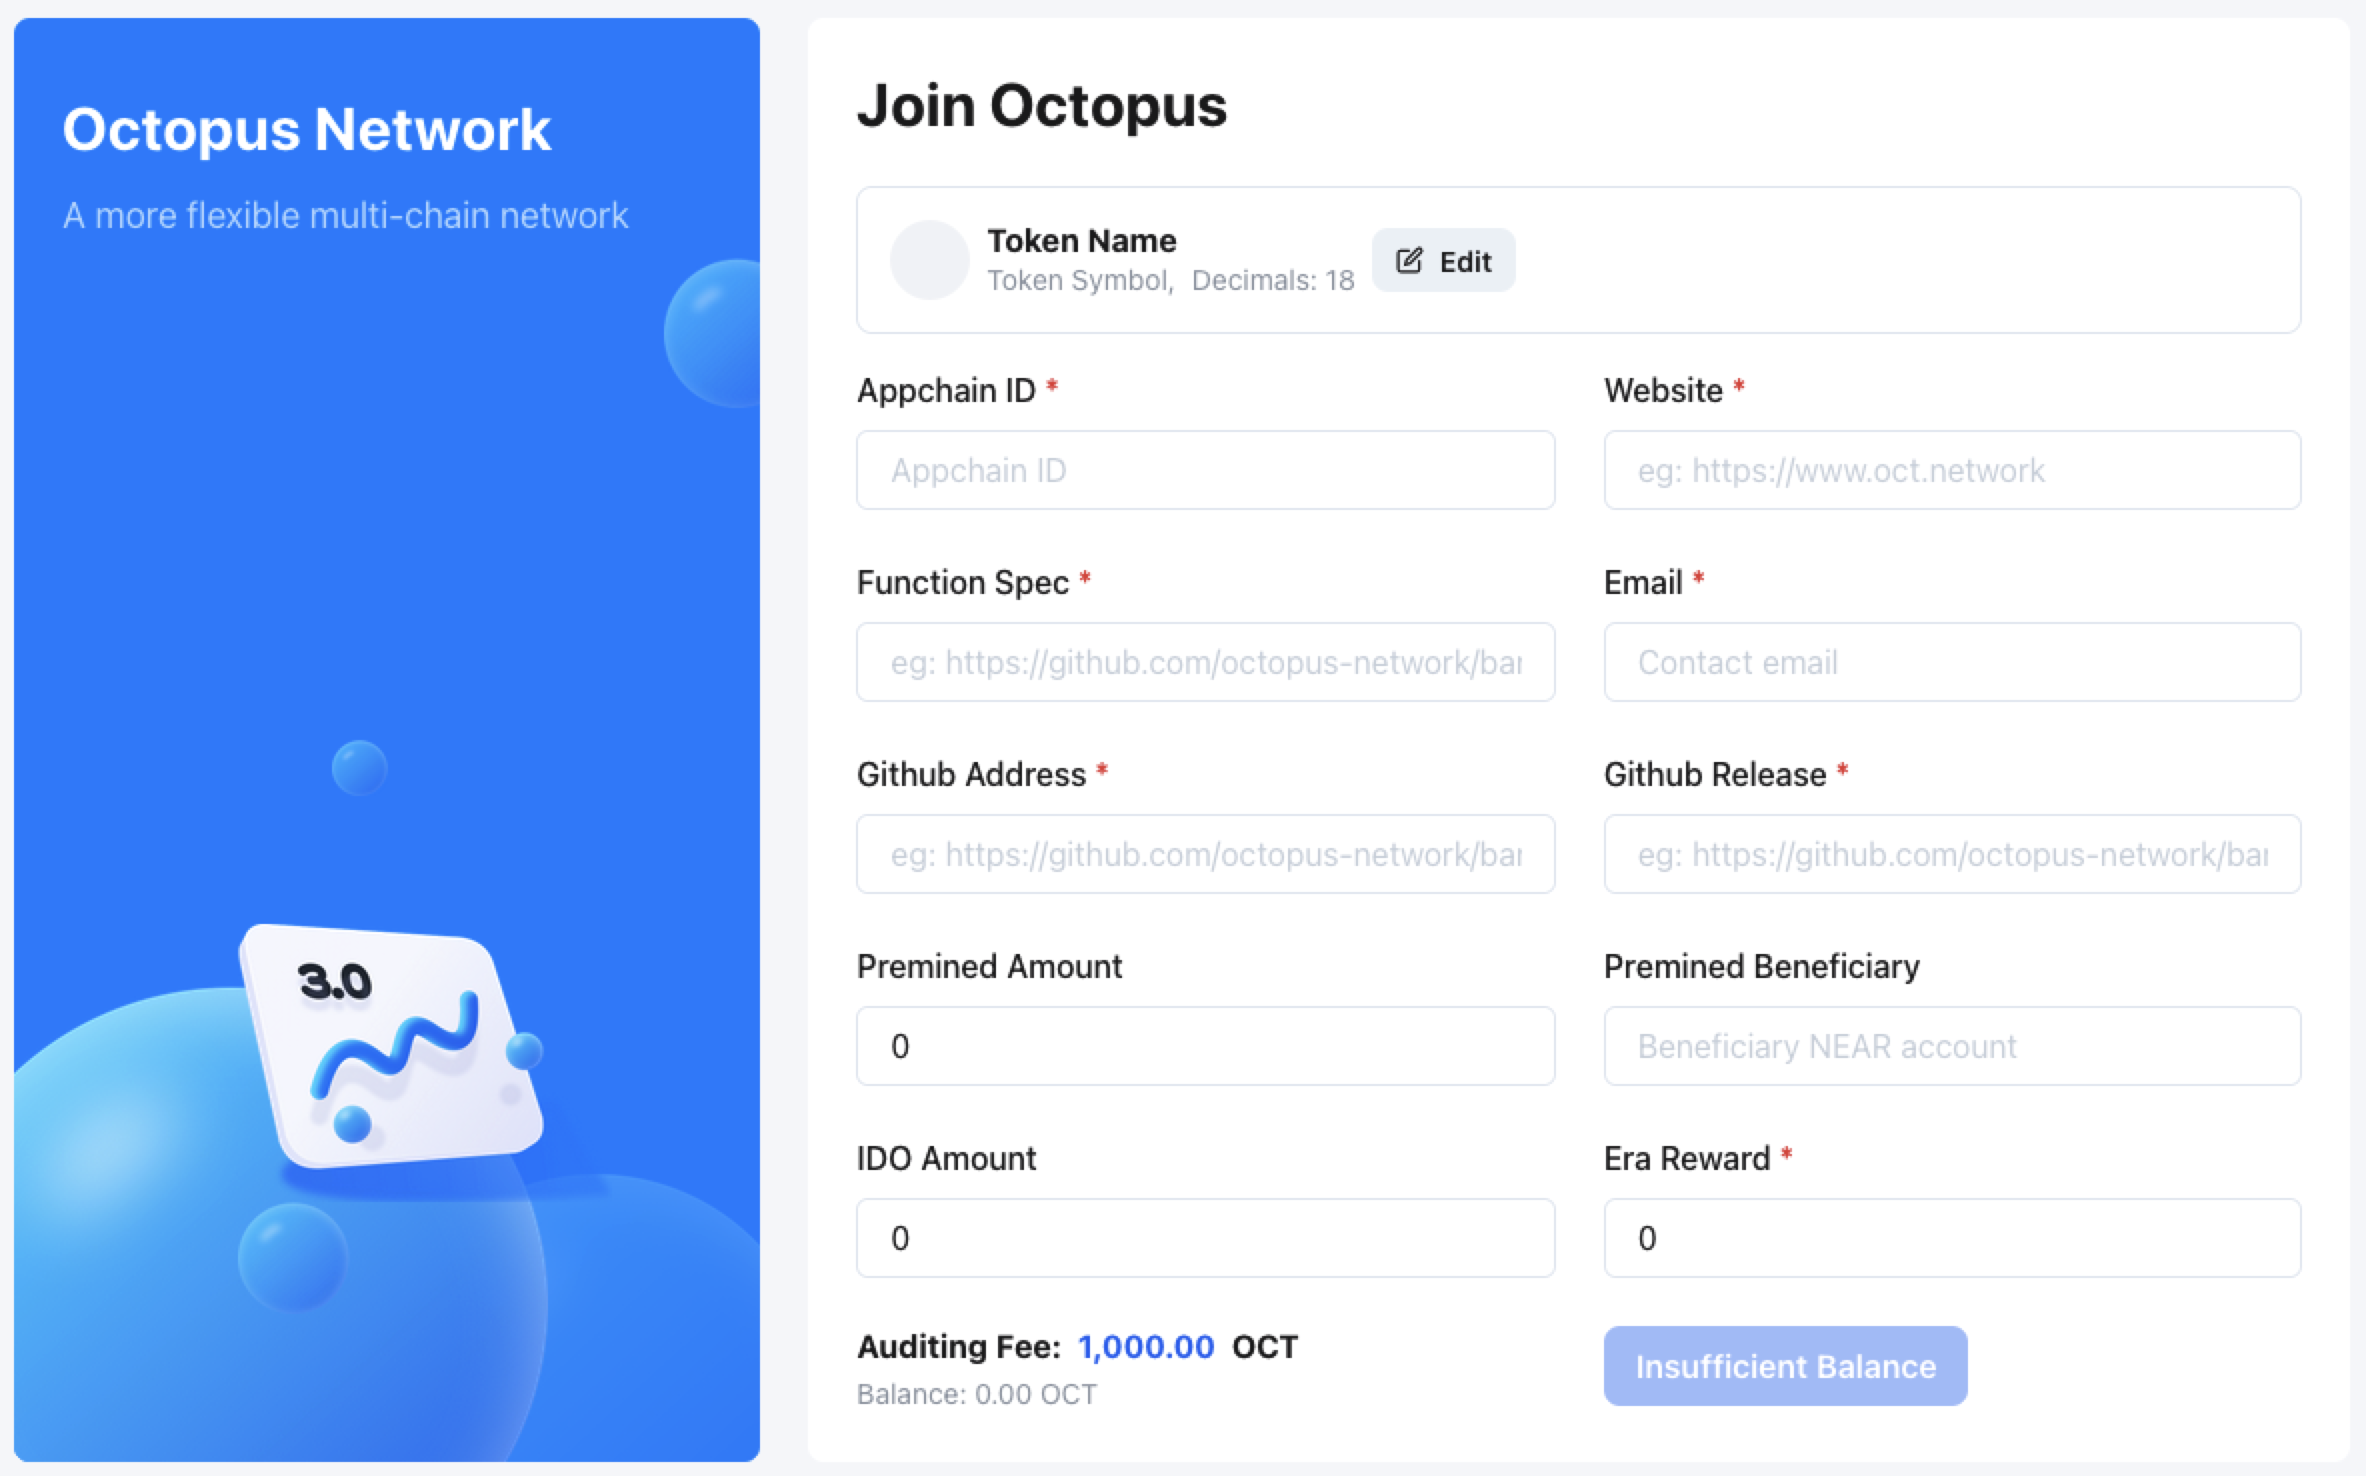
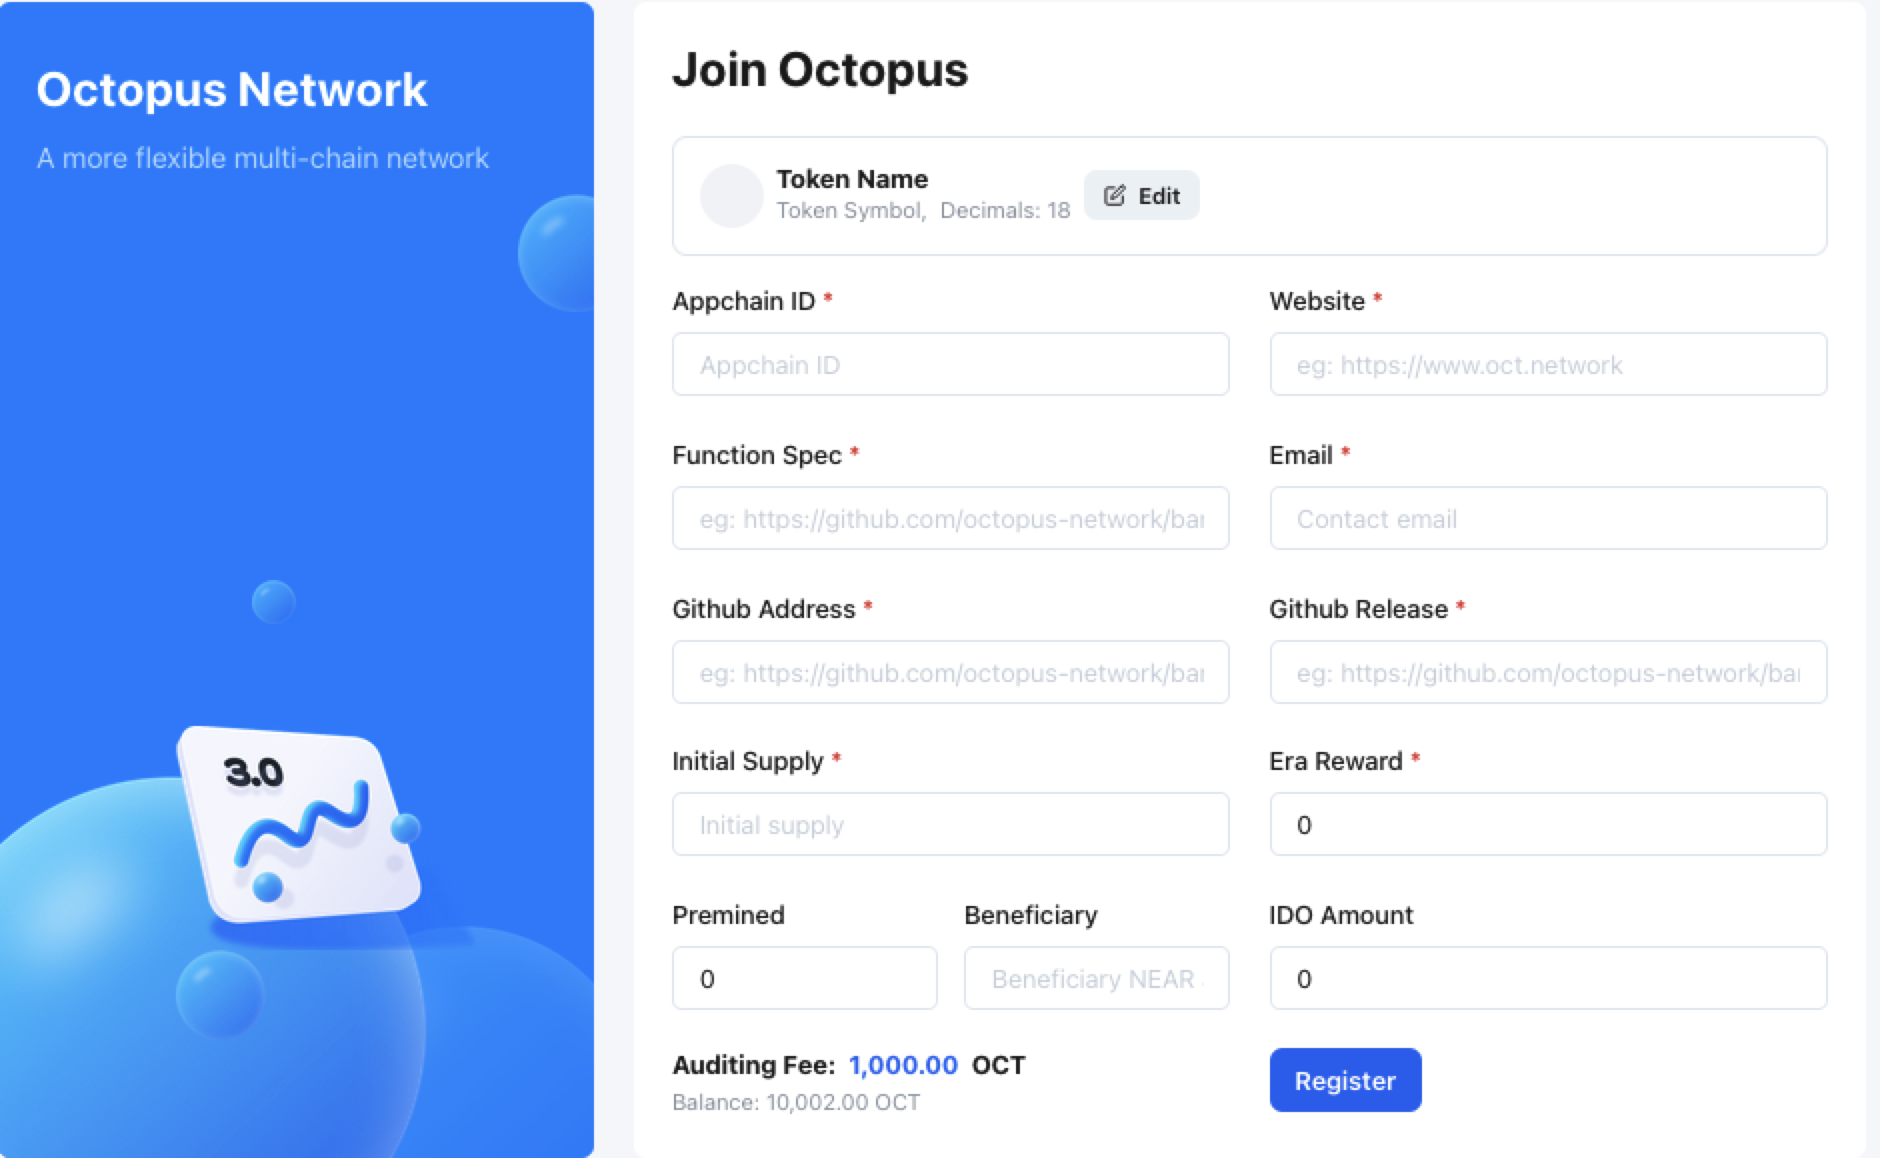
Add initial supply on register page

diff --git a/src/cn/guides/appchain-register.md b/src/cn/guides/appchain-register.md
@@ -19,8 +19,9 @@
     * **Function Spec**: 应用链功能规范文件的链接
     * **Github**: 应用链的 Github 仓库
     * **Github Release**: 应用链上线章鱼网络，发布版本的Github URL
-    * **Premined Amount**: 应用链初始发行的原生通证数量
-    * **Beneficiary**: NEAR 钱包账户，应用链用来接受初始发行的原生通证
+    * **Initial Supply**: 应用链初始发行的原生通证数量
+    * **Premined**: 初始发行总量的一部分，归受益人所有
+    * **Beneficiary**: 受益人NEAR 钱包账户，应用链用来接收初始发行的原生通证
     * **IDO Amount**: 在主网上线前，应用链通过去中心化交易所提供流动性的通证数量
     * **Era Reward**: 应用链每天区块奖励的通证数量（1 era = 1天）
     * **Email**: 应用链联系人邮箱

diff --git a/src/guides/appchain-register.md b/src/guides/appchain-register.md
@@ -19,7 +19,8 @@
     * **Function Spec**: The url of the appchain functional specification file
     * **Github**: The Github repository of AppChain
     * **Github Release**: The Github URL of the release of the Appchain
-    * **Premined Amount**: The Appchain native token amount of the initial issues
+    * **Initial Supply**: The Appchain native token amount of the initial issues
+    * **Premined**: Part of Initial Supply, owned by Beneficiary
     * **Beneficiary**: The NEAR account to receive the premined native token
     * **IDO Amount**: The Appchain token amounts through the DEX offer liquidity before the mainnet goes live 
     * **Era Reward**: The Appchain native token amount as its block reward for each day (1 era = 1 day)
